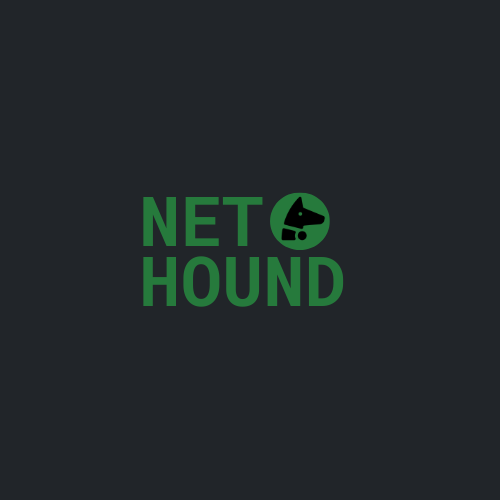
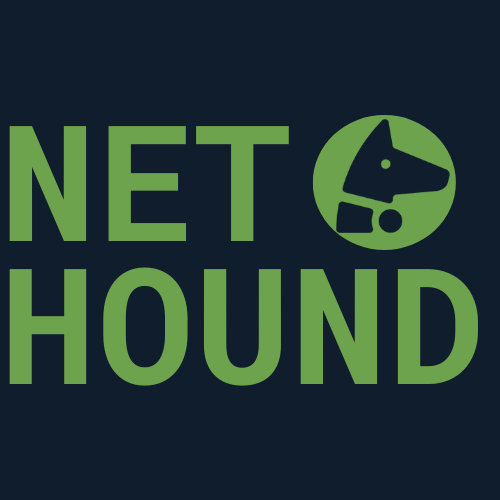
finishing main design of frontend

Changed region(s): [[0.0, 0.21, 0.96, 0.78], [0.0, 0.24, 0.18, 0.48], [0.75, 0.3, 0.78, 0.36]]

diff --git a/version2/frontend/monitorizacao-redes/src/components/info.jsx b/version2/frontend/monitorizacao-redes/src/components/info.jsx
@@ -1,0 +1,63 @@
+import React from "react";
+import { FontAwesomeIcon } from '@fortawesome/react-fontawesome';
+import { faArrowLeft } from "@fortawesome/free-solid-svg-icons";
+
+function Info() {
+    return (
+        <div className="flex flex-col items-center w-full p-10">
+            <div className="flex w-full justify-around gap-4 flex-wrap">
+
+                {/* Card 1 */}
+                <div id="card1" className="group flex flex-col items-center w-full sm:w-[32%] bg-[#101d2d] border border-[#6da34d] rounded p-4 
+                    transition-all duration-300 transform hover:scale-105 hover:bg-[#18293f] select-none">
+                    <div className="flex items-center justify-center w-full mb-3">
+                        <h2 className="text-[#6da34d] font-bold text-2xl text-center">HOW NETHOUND WORKS?</h2>
+                        <div id="icon1" className="flex items-center justify-center w-10 h-10 ml-3 border border-[#6da34d] rounded-full 
+                            transition-transform duration-300 group-hover:-rotate-90 ">
+                            <FontAwesomeIcon icon={faArrowLeft} className="text-white text-xl" />
+                        </div>
+                    </div>
+                    <div className="w-full bg-[#6da34d] rounded h-[2px] mb-3"></div>
+                    <p className="text-center text-white text-lg font-light px-3">
+                        NetHound performs a real-time scan of your local network using a Python-based engine powered by Nmap and Scapy. It identifies all connected devices, collects data such as IP addresses, MAC addresses, hostnames, and manufacturers, and monitors for new or suspicious activity. If unknown or inactive devices are detected, the system generates alerts to keep your network secure and transparent.
+                    </p>
+                </div>
+
+                {/* Card 2 */}
+                <div id="card2" className="group flex flex-col items-center w-full sm:w-[32%] bg-[#101d2d] border border-[#6da34d] rounded p-4 
+                    transition-all duration-300 transform hover:scale-105 hover:bg-[#18293f] select-none">
+                    <div className="flex items-center justify-center w-full mb-3">
+                        <h2 className="text-[#6da34d] font-bold text-2xl text-center">FOUND AN UNKNOWN IP?</h2>
+                        <div id="icon2" className="flex items-center justify-center w-10 h-10 ml-3 border border-[#6da34d] rounded-full 
+                            transition-transform duration-300 group-hover:-rotate-90 ">
+                            <FontAwesomeIcon icon={faArrowLeft} className="text-white text-xl" />
+                        </div>
+                    </div>
+                    <div className="w-full bg-[#6da34d] rounded h-[2px] mb-3"></div>
+                    <p className="text-center text-white text-lg font-light px-3">
+                        If you detect an unfamiliar IP address, first verify if it's a legitimate device (smart TV, guest phone, etc). If it's unrecognized, change your Wi-Fi password immediately and reboot your router. You can also block the MAC address on your router or use NetHound to track its behavior and status in future scans.
+                    </p>
+                </div>
+
+                {/* Card 3 */}
+                <div id="card3" className="group flex flex-col items-center w-full sm:w-[32%] bg-[#101d2d] border border-[#6da34d] rounded p-4 
+                    transition-all duration-300 transform hover:scale-105 hover:bg-[#18293f] select-none">
+                    <div className="flex items-center justify-center w-full mb-3">
+                        <h2 className="text-[#6da34d] font-bold text-2xl text-center">ABOUT NETWORK SECURITY</h2>
+                        <div id="icon3" className="flex items-center justify-center w-10 h-10 ml-3 border border-[#6da34d] rounded-full 
+                            transition-transform duration-300 group-hover:-rotate-90 ">
+                            <FontAwesomeIcon icon={faArrowLeft}  className="text-white text-xl" />
+                        </div>
+                    </div>
+                    <div className="w-full bg-[#6da34d] rounded h-[2px] mb-3"></div>
+                    <p className="text-center text-white text-lg font-light px-3">
+                        Securing your home network is essential. Ensure your router firmware is up to date, use strong passwords, and disable WPS. Tools like NetHound help you stay aware of every connection in real time, giving you more control over your digital environment and protecting your data.
+                    </p>
+                </div>
+
+            </div>
+        </div>
+    );
+}
+
+export default Info;

diff --git a/version2/frontend/monitorizacao-redes/src/components/popup.jsx b/version2/frontend/monitorizacao-redes/src/components/popup.jsx
@@ -1,31 +1,42 @@
-import React, { useState } from "react";
+import React, { useState, useEffect } from "react";
 
-function Popup(){
-    
-    const [isVisible, setIsVisible] = useState(true);
-    const handleAgreeClick = () => {
-        setIsVisible(false);
-    };
+function Popup() {
+  const [isVisible, setIsVisible] = useState(true);
+  const [isClosing, setIsClosing] = useState(false);
 
-    return(
-        <>
-            {isVisible && (
-                <div className='w-2/5 p-2 m-1 rounded flex flex-col items-center' style={{ backgroundColor: 'rgba(0, 0, 0, 0.7)'}}>
-                    <h1 className="font-bold text-2xl w-full text-[#20C74F]"> How we work?</h1>
-                    <p className="font-light text-base">
-                    We use a Python-based script to scan all devices connected to your network, making it easier to identify any unauthorized presence.
-                    All collected data is used for informational purposes only and is automatically removed from our database after 24 hours.
-                    </p>
-                    <div
-                    className="w-1/7 rounded flex justify-center p-1 mt-3 cursor-pointer bg-[#267a3c] hover:bg-[#219E45] transition-all transform hover:scale-105"
-                    onClick={handleAgreeClick} 
-                    >
-                    <p className="font-normal text-base">I agree</p>
-                    </div>
-                </div>
-            )}
-        </>
-    )
+  useEffect(() => {
+    document.body.style.overflowY = isVisible ? "hidden" : "auto";
+  }, [isVisible]);
+
+  const handleAgreeClick = () => {
+    setIsClosing(true);
+    setTimeout(() => setIsVisible(false), 100);
+  };
+
+  if (!isVisible) return null;
+
+  return (
+    <div className="fixed inset-0 z-50 flex items-center justify-center bg-black/50">
+      <div
+        className={`w-2/5 max-w-lg p-6 rounded shadow-lg bg-[#1f1f1f] text-white transform transition-all duration-100 ${
+          isClosing ? "opacity-0 scale-90" : "opacity-100 scale-100"
+        }`}
+      >
+        <h1 className="font-bold text-2xl text-[#6da34d] mb-2">How we work?</h1>
+        <p className="font-light text-base mb-4">
+          We use a Python-based script to scan all devices connected to your network,
+          making it easier to identify any unauthorized presence. All collected data is used
+          for informational purposes only and is automatically removed from our database after 24 hours.
+        </p>
+        <div
+          className="px-4 py-2 rounded cursor-pointer bg-[#6da34d] hover:bg-[#219E45] transition-all transform hover:scale-105 font-bold text-center"
+          onClick={handleAgreeClick}
+        >
+          I agree
+        </div>
+      </div>
+    </div>
+  );
 }
 
 export default Popup;

diff --git a/version2/frontend/monitorizacao-redes/src/components/startBut.jsx b/version2/frontend/monitorizacao-redes/src/components/startBut.jsx
@@ -1,0 +1,73 @@
+import React, { useState, useEffect } from "react";
+import { FontAwesomeIcon } from '@fortawesome/react-fontawesome'
+import { faPlay, faSpinner } from '@fortawesome/free-solid-svg-icons';
+
+function StartBut() {
+  const [isLarge, setIsLarge] = useState(false);
+  const [isLoading, setIsLoading] = useState(false);
+  const [loadingMessage, setLoadingMessage] = useState("getting your neighbor ip address");
+  const [messageIndex, setMessageIndex] = useState(0);
+
+  const loadingMessages = [
+    "getting your neighbor ip address",
+    "scanning devices on the network",
+    "checking for unauthorized connections",
+    "gathering information",
+    "analyzing data"
+  ];
+
+  useEffect(() => {
+    let interval;
+
+    if (isLarge && isLoading) {
+
+      interval = setInterval(() => {
+        setMessageIndex(prev => (prev + 1) % loadingMessages.length);
+        setLoadingMessage(loadingMessages[messageIndex]);
+      }, 1000);
+      setTimeout(() => {
+        setIsLoading(false);
+        clearInterval(interval);
+      }, 5000);
+    }
+
+    return () => clearInterval(interval); 
+  }, [isLarge, isLoading, messageIndex]);
+
+  const handleClick = () => {
+    if (!isLarge) {
+      setIsLarge(true);
+      setIsLoading(true);
+    }
+  };
+
+  return (
+    <>  
+      <div 
+        className={`relative group mb-60 ${isLarge ? 'w-250 h-100 rounded ' : 'w-40 h-40 rounded-full cursor-pointer hover:bg-[#6da34d] transition-all transform hover:scale-105'}  flex justify-center items-center mt-3  border-2 border-[#6da34d] transition-[width,height] duration-500 ease-in-out `}
+        onClick={handleClick}
+      >
+        {isLarge ? (
+          <div className="flex flex-col items-center">
+            {isLoading ? (
+              <>
+                <FontAwesomeIcon icon={faSpinner} className="text-3xl text-white animate-spin mb-1" />
+                <span className="font-bold text-xl text-white">{loadingMessage}</span>
+              </>
+            ) : (
+              <span className="font-bold text-xl text-white">Conteúdo carregado</span>
+            )}
+          </div>
+        ) : (
+          <>
+            <span className="absolute w-full h-full rounded-full border-1 border-[#6da34d] opacity-50 animate-slow-ping"></span>
+            <span className='font-bold text-xl text-[#ffffff] mr-2'>START</span>
+            <FontAwesomeIcon icon={faPlay}  className=" text-3xl text-[#ffffff] transform transition-transform duration-300 ease-in-out group-hover:rotate-180 "/>
+          </>    
+        )}
+      </div>
+    </>   
+  );
+}
+
+export default StartBut;

diff --git a/version2/frontend/monitorizacao-redes/src/components/header.jsx b/version2/frontend/monitorizacao-redes/src/components/header.jsx
@@ -1,12 +1,53 @@
-import React from "react";
+import React, { useState } from "react";
 import Nethound from "../assets/Nethound.png"
+import NethoundHover from "../assets/NethoundHover.png"
+
 
 
 function Header() {
 
+  const [src,setSrc] = useState (Nethound)
+
+  const scrollToCard = (id) => {
+    const card = document.getElementById(id);
+    const arrow = document.getElementById(`icon${id.replace('card', '')}`);
+
+    if (card) {
+      card.scrollIntoView({ behavior: 'smooth', block: 'center' });
+
+      setTimeout(() => {
+        card.classList.add('hovered');
+        arrow.classList.add('hoveredArrow')
+      }, 250); 
+    
+      setTimeout(() => {
+        card.classList.remove('hovered');
+        arrow.classList.remove('hoveredArrow')
+      }, 1050); 
+  }};
   return (
     <>
-        <img src={Nethound} alt="Logo da marca Nethound" className="w-1/8"/>
+      <div className="flex w-full p-5 items-center justify-between">
+        <img src={src}
+          alt="Logo da marca Nethound"
+          className="w-1/10 cursor-pointer mb-10 "
+          onMouseOver={() => setSrc(NethoundHover)}
+          onMouseLeave={() => setSrc(Nethound)}
+          onClick={() => window.location.reload()}
+        
+        />
+        <ul className="flex w-1/3 justify-around font-bold text-[#6da34d] text-center">
+          <li className="hover:text-[#b5d6a1] cursor-pointer" onClick={() => scrollToCard("card1")}>
+            HOW NETHOUND <br /> WORKS?
+          </li>
+          <li className="hover:text-[#b5d6a1] cursor-pointer" onClick={() => scrollToCard("card2")}>
+            YOU FOUND AN <br />UNKNOWN IP?
+          </li>
+          <li className="hover:text-[#b5d6a1] cursor-pointer" onClick={() => scrollToCard("card3")}>
+            ABOUT NETWORK <br /> SECURITY
+          </li>
+        </ul>
+      </div>
     </>
   )
 }

diff --git a/version2/frontend/monitorizacao-redes/src/App.jsx b/version2/frontend/monitorizacao-redes/src/App.jsx
@@ -1,26 +1,26 @@
-import React from 'react';
+import React, {useState} from 'react';
 import Header from './components/header';
 import Popup from './components/popup';
-import { FontAwesomeIcon } from '@fortawesome/react-fontawesome'
-import { faPlay } from '@fortawesome/free-solid-svg-icons';
+import StartBut from './components/startBut';
+import Footer from './components/footer';
+import Info from './components/info';
 
 function App() {
+
   return (
     <>
       <div
-        className="w-full min-h-screen text-white justify-items-center font-['Roboto'] bg-[#212529] "
+        className="w-full min-h-screen text-white justify-items-center font-['Roboto'] bg-[#101d2d] overflow-y-hidden"
       >
-        <Header />
-
         <Popup />
 
-        <div className='relative group w-40 h-40 flex justify-center items-center rounded-full mt-3 cursor-pointer bg-[#267a3c] hover:bg-[#219E45] transition-all transform hover:scale-105'>
+        <Header />
 
-          <span className="absolute w-full h-full rounded-full border-4 border-green-400 opacity-50 animate-slow-ping"></span>
+        <StartBut />
 
-          <span className='font-bold text-xl mr-2'>START</span>
-          <FontAwesomeIcon icon={faPlay}  className=" text-3xl transform transition-transform duration-300 ease-in-out group-hover:rotate-180"/>
-        </div>
+        <Info />
+
+        <Footer />
        
       </div>
     </>

diff --git a/version2/frontend/monitorizacao-redes/src/components/footer.jsx b/version2/frontend/monitorizacao-redes/src/components/footer.jsx
@@ -1,0 +1,22 @@
+import React from "react";
+
+function Footer (){
+    return(
+        <>
+            <div className='w-full bg-[#6da34d] flex flex-col justify-center items-center p-5'>
+                <div className="font-bold text-xl hover:text-[#101d2d] select-none cursor-default">
+                    NETHOUND<span className="align-super text-sm ml-1">®</span>
+                </div>
+                <div className=" text-sm flex flex-col justify-center items-center w-full mt-4 pt-4 px-4 leading-relaxed font-light select-none cursor-default ">
+                    <span> © 2024–2025 NETHOUND, LLC. All rights reserved. NETHOUND<span className="align-super text-xs ml-0.5">®</span></span>
+                    <span> and related marks are federally registered trademarks of NETHOUND, LLC and may only be used with explicit written permission.</span>
+                </div>
+                <div className="border-t border-white/20 w-full mt-6 pt-4 text-sm text-center font-light select-none cursor-default">
+                    &copy; {new Date().getFullYear()} NETHOUND. All rights reserved.
+                </div>
+            </div>
+        </>
+    )
+}
+
+export default Footer

diff --git a/version2/frontend/monitorizacao-redes/src/index.css b/version2/frontend/monitorizacao-redes/src/index.css
@@ -9,6 +9,21 @@
   }
 }
 
+.hovered {
+  transform: scale(1.05);
+  background-color: #18293f;
+  transition: all 0.3s ease;
+}
+.hoveredArrow{
+  transform: rotate(-90deg);
+  transition: transform 0.3s ease;
+}
+body
+ {
+  overflow-y: hidden;
+}
+
 .animate-slow-ping {
   animation: slowPing 2.5s cubic-bezier(0, 0, 0.2, 1) infinite;
 }
+
